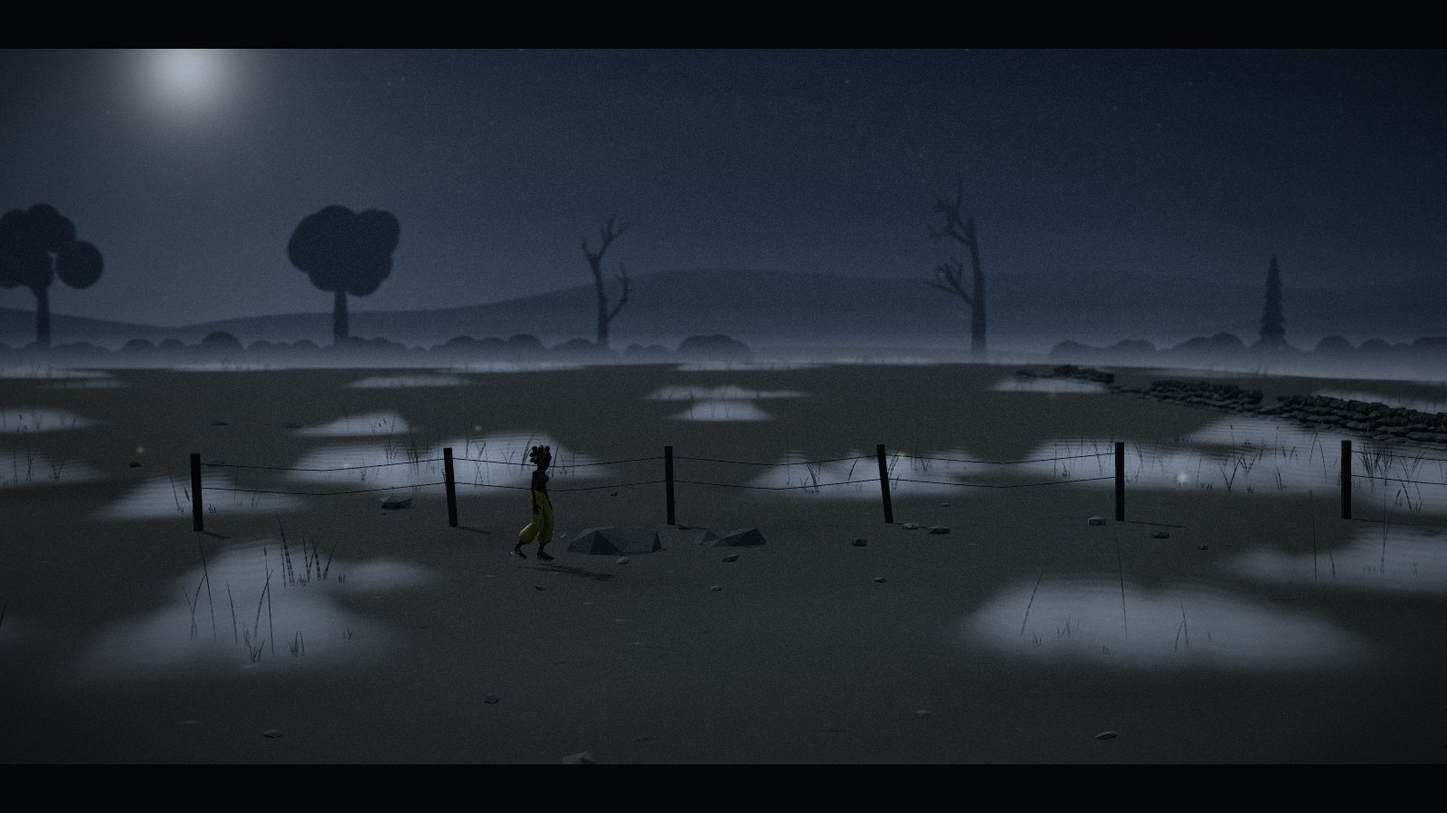
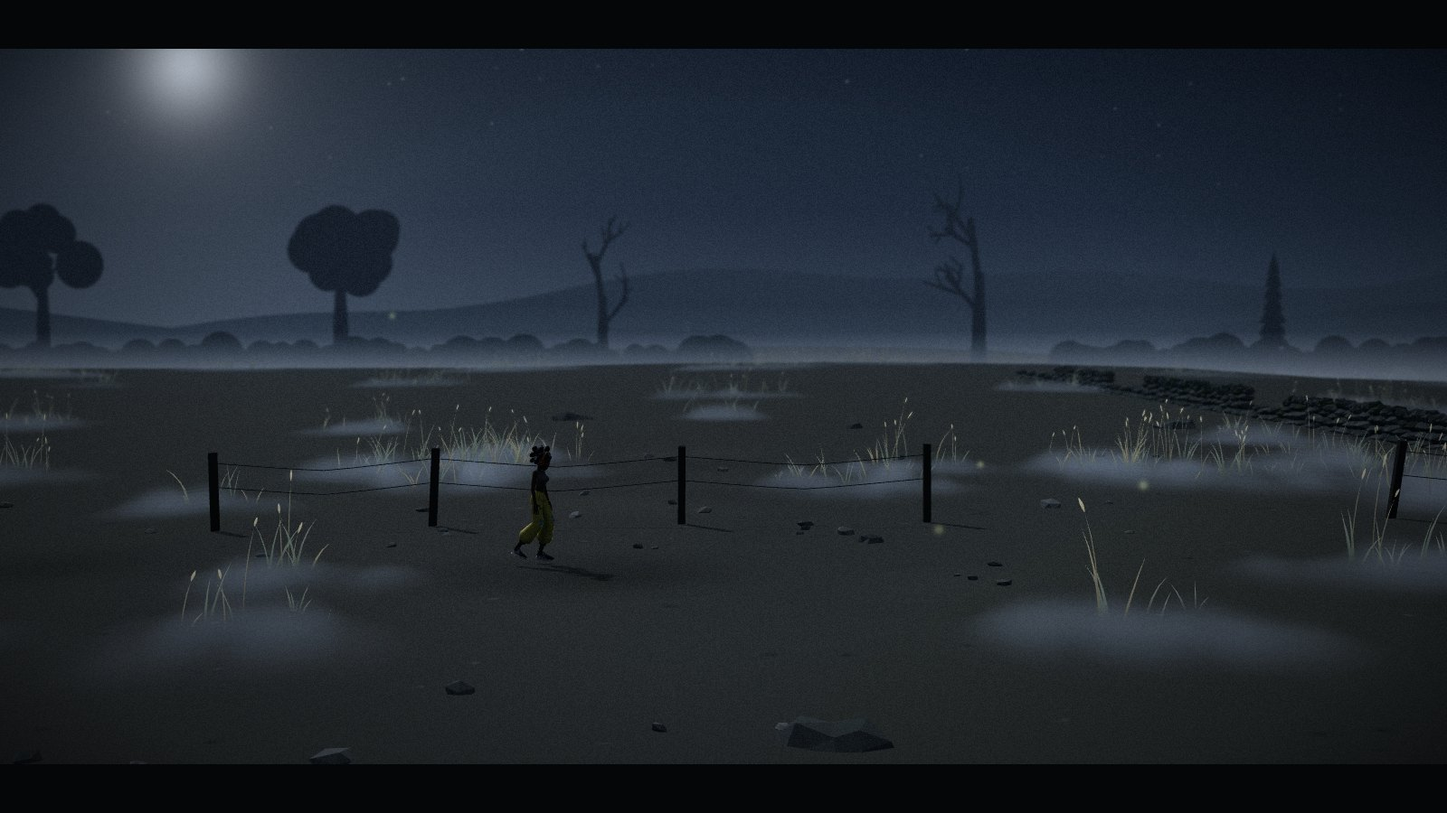
Meadow: fade grass bottoms so the mist can be thin and faint
Burying the grass roots needed thick, bright mist, which still read as
snow at night. Now the blades themselves fade in from the root (about
0.12-0.36 m, staggered per blade, via alpha-to-coverage), so only the
moonlit tops are drawn and a thin, dim haze is enough to look like it
covers them. Short grass is gone (it was invisible anyway). Blade tips
are lighter with a slight self-lit sheen, blades are wider and clumps
denser so they read against the dark soil.

Claude-Session: https://claude.ai/code/session_01RrfmthfCWniKn4WU1tpYGz

diff --git a/Last/escape.html b/Last/escape.html
@@ -17579,9 +17579,10 @@ const H12 = (() => {
 // ============================================================
 //  第 37 章 · 草地（2026-11-17）
 //  铃那一章的门外面是白的：往外走，白光一点点退下去，原来是雾 —— 夜里的一片草地，月亮在左上方。
-//  草长成一簇一簇的（一块块草窝），草窝中间是光着的土地和石头。雾只伏在草窝上（浅浅的，齐膝），比草窝大一圈，把草根全淹在里面：
-//  伸出雾来的只有几根长的（有的带穗），矮的都没在雾里 —— 看上去像是雾底下一整窝草，其实就那么几根长草。没有草的地方没有雾。
-//  （2026-11-17 第一版是满地铺雾、草零零星星撒满一地，看上去像下了雪；改成现在这样）
+//  草长成一簇一簇的（一块块草窝），草窝中间是光着的土地和石头。雾只伏在草窝上，很浅、很淡，没有草的地方没有雾。
+//  草的底下一截干脆不画（从根往上渐渐显出来），只画伸出来的上半截，被月光照着的草尖 —— 雾只要薄薄一层就像把草根盖住了，
+//  看上去像是雾底下一整窝草，其实就那么几根长草，矮草也不用摆。
+//  （2026-11-17 第一版是满地铺雾、草零零星星撒满一地；第二版雾只在草窝上，但要把草根盖严实，雾得又厚又亮 —— 两版夜里看着都像雪。改成现在这样）
 //  没有谜题，是一段走过去的路：一道矮石墙要跳过去；洼地里草窝多一些、雾稍深一点；一棵枯树；坡顶是路的尽头。
 //  雾（mdMist）：贴着地面一层层叠起来的半透明薄片，跟着地形起伏，用一张“草窝在哪”的图挖掉没草的地方。每一片有多浓，按“视线在这一层里走了多远”算 ——
 //    镜头底下往下看，视线很快穿过去，雾是薄的；往远处看，视线贴着雾面走好长一段，雾就浓得看不透。雾顶照着一张噪声图高高低低、慢慢飘，人走过去搅开一点。
@@ -17644,7 +17645,7 @@ const MD_NOISE = (() => {
 // 每一片在一根竖线上占 dh 那么厚；视线往下斜得越平，在这一片里走得越远：不透明度 = 1 - exp(-浓度 × dh / 视线往下斜的正弦)。
 // 每个顶点带 aM：x 这一层离地是雾顶的几倍，y 这里的雾顶有多高（米，洼地里高、坡顶上低）。雾顶再照噪声图高高低低；草窝的图（透明度）管雾在哪、草窝边上雾顶矮下去
 const MD_TOPK = 1.35;                                      // 最上面一层离地是雾顶的几倍（雾顶最高到 1.28 倍，上面留一点空）
-const MD_MIST_U = { uN: { value: MD_NOISE }, uMask: { value: null }, uMR: { value: new THREE.Vector4() }, uT: { value: 0 }, uD: { value: 0.95 }, uDh: { value: 0.1 }, uC: { value: new THREE.Color() }, uC2: { value: new THREE.Color() },
+const MD_MIST_U = { uN: { value: MD_NOISE }, uMask: { value: null }, uMR: { value: new THREE.Vector4() }, uT: { value: 0 }, uD: { value: 0.5 }, uDh: { value: 0.1 }, uC: { value: new THREE.Color() }, uC2: { value: new THREE.Color() },
   uFogC: { value: new THREE.Color() }, uFogD: { value: 0 }, uFogK: { value: 0.85 }, uMoon: { value: new THREE.Vector2(-0.3, -1).normalize() }, uX: { value: new THREE.Vector4() },
   uW: { value: [0, 1, 2].map(() => new THREE.Vector4(0, 0, 1, 0)) } };
 function mdMistMat() {
@@ -17692,20 +17693,26 @@ function mdMistSlab(R, mat, xs, Hm, z1, z2, N, order) {
 
 // ---- 草：一根根的叶子和草茎，合成几个网格 ----
 // aB：根的 x、z，这一点离根多远（米，顺着叶子量），摆动的相位。风：越往梢摆得越多；人：根离人不到 0.7 米的往外让、往下压一点（人跳起来就不让了）
-const MD_GRASS_U = { uT: { value: 0 }, uWind: { value: 1 }, uPl: { value: V3(0, 9, 0) } };
+// 草的底下一截不画：从根往上渐渐显出来（uF：离根多少米开始显、多少米全显，每一根再错开一点）。底下本来就该被雾盖着 ——
+// 草自己先“没了”底，雾就只要很薄很淡的一层（不然要把草根盖严实，雾得又厚又亮，夜里一块块像雪）。透明度走多重采样的覆盖（alphaToCoverage），不用排先后
+const MD_GRASS_U = { uT: { value: 0 }, uWind: { value: 1 }, uPl: { value: V3(0, 9, 0) }, uF: { value: new THREE.Vector2(0.12, 0.36) } };
 function mdGrassMat() {
-  const m = new THREE.MeshLambertMaterial({ vertexColors: true });
+  const m = new THREE.MeshLambertMaterial({ vertexColors: true, alphaToCoverage: true });
   m.onBeforeCompile = sh => {
     for (const k in MD_GRASS_U) sh.uniforms[k] = MD_GRASS_U[k];
-    sh.vertexShader = sh.vertexShader.replace('#include <common>', '#include <common>\nattribute vec4 aB;\nuniform float uT, uWind;\nuniform vec3 uPl;')
+    sh.fragmentShader = sh.fragmentShader.replace('#include <common>', '#include <common>\nuniform vec2 uF;\nvarying vec2 vS;')
+      .replace('#include <alphamap_fragment>', '#include <alphamap_fragment>\n\tdiffuseColor.a *= smoothstep(uF.x + vS.y, uF.y + vS.y, vS.x);')
+      .replace('#include <emissivemap_fragment>', '#include <emissivemap_fragment>\n\ttotalEmissiveRadiance += diffuseColor.rgb * 0.4;');   // 草尖自己带一点月光的亮：底下的雾很淡了，草要在暗的土上也看得出来
+    sh.vertexShader = sh.vertexShader.replace('#include <common>', '#include <common>\nattribute vec4 aB;\nuniform float uT, uWind;\nuniform vec3 uPl;\nvarying vec2 vS;')
       .replace('#include <begin_vertex>', `#include <begin_vertex>
+        vS = vec2(aB.z, 0.08 * sin(aB.x * 1.7 + aB.y * 2.3));                        // 离根多远；从哪显出来，每一根错开一点
         float s2 = aB.z * aB.z, ph = uT * 1.35 + aB.x * 0.31 + aB.y * 0.17 + aB.w;
         transformed.x += s2 * uWind * (0.07 * sin(ph) + 0.03 * sin(ph * 2.7 + 1.3) + 0.04);
         transformed.z += s2 * uWind * 0.035 * sin(ph * 0.73 + 2.1);
         vec2 dp = aB.xy - uPl.xz; float dl = length(dp), pk = smoothstep(0.7, 0.12, dl) * (1.0 - smoothstep(0.35, 0.9, uPl.y));
         transformed.xz += dp / max(dl, 0.05) * pk * s2 * 0.6; transformed.y -= pk * s2 * 0.3;`);
   };
-  m.customProgramCacheKey = () => 'meadow-grass-1';
+  m.customProgramCacheKey = () => 'meadow-grass-3';
   m.userData.own = true; return m;
 }
 // 往草的顶点表 B（{ p, c, b, i }）里加一根：根在 (x, y, z)，长 L，根部宽 w；ang 往哪边歪（弧度，0 是 +x）；a0 根部斜多少、bend 一路弯过去多少（弧度）；c0 / c1 根和梢的颜色。
@@ -17799,9 +17806,9 @@ const MEADOW = (() => {
   env(X - 8, NIGHT, true); env(END + 60, NIGHT);
   BIRDS[MD_N] = [['bird', 0]]; FAR[MD_N] = ['owl', 'twig', 'owl'];
   // 草窝正中雾顶有多高（米）：平常齐膝，洼地里稍深，坡顶上浅
-  const Hm = x => 0.48 + 0.16 * sstep(X + 50, X + 62, x) * sstep(X + 88, X + 77, x) - 0.08 * sstep(X + 104, X + 118, x);
+  const Hm = x => 0.36 + 0.16 * sstep(X + 50, X + 62, x) * sstep(X + 88, X + 77, x) - 0.08 * sstep(X + 104, X + 118, x);
   const MX1 = A - 2, MX2 = END + 70, MZ1 = -104, MZ2 = 13;                  // 雾可能在哪：从铃那一章的门外（白光里）一直到坡顶外面，前后从树篱前面一点到镜头底下
-  const NIGHT_MIST = new THREE.Color(0x7e8ea4), FWD = new THREE.Color(0x1c2633), _c = new THREE.Color();
+  const NIGHT_MIST = new THREE.Color(0x67778e), FWD = new THREE.Color(0x1c2633), _c = new THREE.Color();
 
   let V = null;
   function* build(R) {
@@ -17844,14 +17851,14 @@ const MEADOW = (() => {
       v.mist = [mdMistSlab(R, mat, xs, Hm, MZ1, -90, N, -500), mdMistSlab(R, mat, xs, Hm, -90, -40, N, -300), mdMistSlab(R, mat, xs, Hm, -40, MZ2, N, -100)];
     }
     yield;
-    // ---- 草：只长在草窝里。窝中间高、边上矮；长的伸出雾来，矮的（不到膝盖）都没在雾里 ----
-    const GR0 = 0x18211a, GR1 = 0x5a6a5b, DRY0 = 0x24251a, DRY1 = 0x857f62, ST0 = 0x262d22, ST1 = 0x6e705a, HD0 = 0x8a8468, HD1 = 0xa9a184, SH0 = 0x141b15, SH1 = 0x34402f;
+    // ---- 草：只长在草窝里，窝中间高、边上矮。只有长草：底下一截不画（见 mdGrassMat），矮草本来就看不见，不摆了 ----
+    const GR0 = 0x2a3a2c, GR1 = 0x9aac9c, DRY0 = 0x3a3a2a, DRY1 = 0xc4bc98, ST0 = 0x3a4232, ST1 = 0xaaa88c, HD0 = 0xc0b894, HD1 = 0xe0d8b4;   // 梢上浅：月光照着的草尖，在暗的土上也看得清
     const gmat = mdGrassMat(), K = LOW ? 0.6 : 1;
     const clear = (x, z) => Math.abs(x - WX) < 0.55 || (Math.abs(x - (X + 71)) < 0.6 && Math.abs(z + 15) < 0.6);   // 石墙里、树干上不长
     const side = () => (rnd() < 0.5 ? 0 : Math.PI) + rr(-0.6, 0.6);
     const chunks = new Map(), chunk = x => { const k = Math.floor((x - A) / 40); if (!chunks.has(k)) chunks.set(k, { p: [], c: [], b: [], i: [] }); return chunks.get(k); };
     for (const P of MD_PATCHES) for (const [cx, cz, rx, rz] of P.parts) {
-      const tallD = (cz > -16 ? 2.2 : cz > -36 ? 1.3 : 0.8) * K, n = Math.max(2, Math.round(Math.PI * rx * rz * tallD)), B = chunk(cx);
+      const tallD = (cz > -16 ? 4.5 : cz > -36 ? 2.6 : 1.6) * K, n = Math.max(3, Math.round(Math.PI * rx * rz * tallD)), B = chunk(cx);
       for (let k = 0; k < n; k++) {                                               // 长草：一丛一到四五根叶子，或者一两根带穗的草茎
         const a = rr(0, 6.28), rad = Math.sqrt(rnd()), x = cx + Math.cos(a) * rad * rx, z = cz + Math.sin(a) * rad * rz;
         if (clear(x, z)) continue;
@@ -17859,20 +17866,14 @@ const MEADOW = (() => {
         if (rnd() < 0.2) {
           for (let j = 0, m = rnd() < 0.6 ? 1 : 2; j < m; j++) {
             const L = rr(0.72, 1.12) * hk, ang = side(), xr = x + rr(-0.04, 0.04), zr = z + rr(-0.04, 0.04);
-            const tip = mdBlade(B, xr, y, zr, L, rr(0.008, 0.011), ang, rr(-0.06, 0.12), rr(0.05, 0.35), ST0, ST1, { k: 5, wp: 0.3, ph });
+            const tip = mdBlade(B, xr, y, zr, L, rr(0.011, 0.015), ang, rr(-0.06, 0.12), rr(0.05, 0.35), ST0, ST1, { k: 5, wp: 0.3, ph });
             mdBlade(B, tip[0], tip[1], tip[2], rr(0.07, 0.13), rr(0.02, 0.028), ang, tip[3], rr(0, 0.15), HD0, HD1, { k: 3, prof: s => Math.sin(Math.PI * (0.08 + 0.84 * s)), s0: L, rx: xr, rz: zr, ph });
           }
         } else {
           const m = 1 + Math.floor(Math.pow(rnd(), 1.6) * 4.5), L0 = (0.42 + 0.62 * Math.pow(rnd(), 0.9)) * hk, dry = rnd() < 0.3;
-          for (let j = 0; j < m; j++) mdBlade(B, x + rr(-0.03, 0.03), y, z + rr(-0.03, 0.03), L0 * rr(0.62, 1), rr(0.016, 0.03), side(), rr(0.02, 0.28), rr(0.1, 0.9),
+          for (let j = 0; j < m; j++) mdBlade(B, x + rr(-0.03, 0.03), y, z + rr(-0.03, 0.03), L0 * rr(0.62, 1), rr(0.024, 0.042), side(), rr(0.02, 0.28), rr(0.1, 0.9),
             dry ? DRY0 : GR0, dry ? DRY1 : GR1, { k: 5, ph: ph + j * 0.4 });
         }
-      }
-      if (cz > -18) for (let k = 0, ns = Math.round(Math.PI * rx * rz * 3 * K); k < ns; k++) {   // 矮草：铺满草窝，都在雾底下（只有镜头跟前、雾薄的地方隐约看得见）
-        const a = rr(0, 6.28), rad = Math.sqrt(rnd()), x = cx + Math.cos(a) * rad * rx, z = cz + Math.sin(a) * rad * rz;
-        if (clear(x, z)) continue;
-        const y = groundY(x) - 0.01, L0 = rr(0.1, 0.24), ph = rr(0, 6.28);
-        for (let j = 0, m = 3 + Math.floor(rnd() * 4); j < m; j++) mdBlade(B, x + rr(-0.05, 0.05), y, z + rr(-0.05, 0.05), L0 * rr(0.6, 1), rr(0.012, 0.02), rr(0, 6.28), rr(0.05, 0.4), rr(0.2, 0.8), SH0, SH1, { k: 3, ph });
       }
     }
     for (const B of chunks.values()) { mdGrassMesh(R, B, gmat); yield; }

diff --git a/Last/sidescroller/src/69-m01-meadow.js b/Last/sidescroller/src/69-m01-meadow.js
@@ -1,9 +1,10 @@
 // ============================================================
 //  第 37 章 · 草地（2026-11-17）
 //  铃那一章的门外面是白的：往外走，白光一点点退下去，原来是雾 —— 夜里的一片草地，月亮在左上方。
-//  草长成一簇一簇的（一块块草窝），草窝中间是光着的土地和石头。雾只伏在草窝上（浅浅的，齐膝），比草窝大一圈，把草根全淹在里面：
-//  伸出雾来的只有几根长的（有的带穗），矮的都没在雾里 —— 看上去像是雾底下一整窝草，其实就那么几根长草。没有草的地方没有雾。
-//  （2026-11-17 第一版是满地铺雾、草零零星星撒满一地，看上去像下了雪；改成现在这样）
+//  草长成一簇一簇的（一块块草窝），草窝中间是光着的土地和石头。雾只伏在草窝上，很浅、很淡，没有草的地方没有雾。
+//  草的底下一截干脆不画（从根往上渐渐显出来），只画伸出来的上半截，被月光照着的草尖 —— 雾只要薄薄一层就像把草根盖住了，
+//  看上去像是雾底下一整窝草，其实就那么几根长草，矮草也不用摆。
+//  （2026-11-17 第一版是满地铺雾、草零零星星撒满一地；第二版雾只在草窝上，但要把草根盖严实，雾得又厚又亮 —— 两版夜里看着都像雪。改成现在这样）
 //  没有谜题，是一段走过去的路：一道矮石墙要跳过去；洼地里草窝多一些、雾稍深一点；一棵枯树；坡顶是路的尽头。
 //  雾（mdMist）：贴着地面一层层叠起来的半透明薄片，跟着地形起伏，用一张“草窝在哪”的图挖掉没草的地方。每一片有多浓，按“视线在这一层里走了多远”算 ——
 //    镜头底下往下看，视线很快穿过去，雾是薄的；往远处看，视线贴着雾面走好长一段，雾就浓得看不透。雾顶照着一张噪声图高高低低、慢慢飘，人走过去搅开一点。
@@ -66,7 +67,7 @@ const MD_NOISE = (() => {
 // 每一片在一根竖线上占 dh 那么厚；视线往下斜得越平，在这一片里走得越远：不透明度 = 1 - exp(-浓度 × dh / 视线往下斜的正弦)。
 // 每个顶点带 aM：x 这一层离地是雾顶的几倍，y 这里的雾顶有多高（米，洼地里高、坡顶上低）。雾顶再照噪声图高高低低；草窝的图（透明度）管雾在哪、草窝边上雾顶矮下去
 const MD_TOPK = 1.35;                                      // 最上面一层离地是雾顶的几倍（雾顶最高到 1.28 倍，上面留一点空）
-const MD_MIST_U = { uN: { value: MD_NOISE }, uMask: { value: null }, uMR: { value: new THREE.Vector4() }, uT: { value: 0 }, uD: { value: 0.95 }, uDh: { value: 0.1 }, uC: { value: new THREE.Color() }, uC2: { value: new THREE.Color() },
+const MD_MIST_U = { uN: { value: MD_NOISE }, uMask: { value: null }, uMR: { value: new THREE.Vector4() }, uT: { value: 0 }, uD: { value: 0.5 }, uDh: { value: 0.1 }, uC: { value: new THREE.Color() }, uC2: { value: new THREE.Color() },
   uFogC: { value: new THREE.Color() }, uFogD: { value: 0 }, uFogK: { value: 0.85 }, uMoon: { value: new THREE.Vector2(-0.3, -1).normalize() }, uX: { value: new THREE.Vector4() },
   uW: { value: [0, 1, 2].map(() => new THREE.Vector4(0, 0, 1, 0)) } };
 function mdMistMat() {
@@ -114,20 +115,26 @@ function mdMistSlab(R, mat, xs, Hm, z1, z2, N, order) {
 
 // ---- 草：一根根的叶子和草茎，合成几个网格 ----
 // aB：根的 x、z，这一点离根多远（米，顺着叶子量），摆动的相位。风：越往梢摆得越多；人：根离人不到 0.7 米的往外让、往下压一点（人跳起来就不让了）
-const MD_GRASS_U = { uT: { value: 0 }, uWind: { value: 1 }, uPl: { value: V3(0, 9, 0) } };
+// 草的底下一截不画：从根往上渐渐显出来（uF：离根多少米开始显、多少米全显，每一根再错开一点）。底下本来就该被雾盖着 ——
+// 草自己先“没了”底，雾就只要很薄很淡的一层（不然要把草根盖严实，雾得又厚又亮，夜里一块块像雪）。透明度走多重采样的覆盖（alphaToCoverage），不用排先后
+const MD_GRASS_U = { uT: { value: 0 }, uWind: { value: 1 }, uPl: { value: V3(0, 9, 0) }, uF: { value: new THREE.Vector2(0.12, 0.36) } };
 function mdGrassMat() {
-  const m = new THREE.MeshLambertMaterial({ vertexColors: true });
+  const m = new THREE.MeshLambertMaterial({ vertexColors: true, alphaToCoverage: true });
   m.onBeforeCompile = sh => {
     for (const k in MD_GRASS_U) sh.uniforms[k] = MD_GRASS_U[k];
-    sh.vertexShader = sh.vertexShader.replace('#include <common>', '#include <common>\nattribute vec4 aB;\nuniform float uT, uWind;\nuniform vec3 uPl;')
+    sh.fragmentShader = sh.fragmentShader.replace('#include <common>', '#include <common>\nuniform vec2 uF;\nvarying vec2 vS;')
+      .replace('#include <alphamap_fragment>', '#include <alphamap_fragment>\n\tdiffuseColor.a *= smoothstep(uF.x + vS.y, uF.y + vS.y, vS.x);')
+      .replace('#include <emissivemap_fragment>', '#include <emissivemap_fragment>\n\ttotalEmissiveRadiance += diffuseColor.rgb * 0.4;');   // 草尖自己带一点月光的亮：底下的雾很淡了，草要在暗的土上也看得出来
+    sh.vertexShader = sh.vertexShader.replace('#include <common>', '#include <common>\nattribute vec4 aB;\nuniform float uT, uWind;\nuniform vec3 uPl;\nvarying vec2 vS;')
       .replace('#include <begin_vertex>', `#include <begin_vertex>
+        vS = vec2(aB.z, 0.08 * sin(aB.x * 1.7 + aB.y * 2.3));                        // 离根多远；从哪显出来，每一根错开一点
         float s2 = aB.z * aB.z, ph = uT * 1.35 + aB.x * 0.31 + aB.y * 0.17 + aB.w;
         transformed.x += s2 * uWind * (0.07 * sin(ph) + 0.03 * sin(ph * 2.7 + 1.3) + 0.04);
         transformed.z += s2 * uWind * 0.035 * sin(ph * 0.73 + 2.1);
         vec2 dp = aB.xy - uPl.xz; float dl = length(dp), pk = smoothstep(0.7, 0.12, dl) * (1.0 - smoothstep(0.35, 0.9, uPl.y));
         transformed.xz += dp / max(dl, 0.05) * pk * s2 * 0.6; transformed.y -= pk * s2 * 0.3;`);
   };
-  m.customProgramCacheKey = () => 'meadow-grass-1';
+  m.customProgramCacheKey = () => 'meadow-grass-3';
   m.userData.own = true; return m;
 }
 // 往草的顶点表 B（{ p, c, b, i }）里加一根：根在 (x, y, z)，长 L，根部宽 w；ang 往哪边歪（弧度，0 是 +x）；a0 根部斜多少、bend 一路弯过去多少（弧度）；c0 / c1 根和梢的颜色。
@@ -221,9 +228,9 @@ const MEADOW = (() => {
   env(X - 8, NIGHT, true); env(END + 60, NIGHT);
   BIRDS[MD_N] = [['bird', 0]]; FAR[MD_N] = ['owl', 'twig', 'owl'];
   // 草窝正中雾顶有多高（米）：平常齐膝，洼地里稍深，坡顶上浅
-  const Hm = x => 0.48 + 0.16 * sstep(X + 50, X + 62, x) * sstep(X + 88, X + 77, x) - 0.08 * sstep(X + 104, X + 118, x);
+  const Hm = x => 0.36 + 0.16 * sstep(X + 50, X + 62, x) * sstep(X + 88, X + 77, x) - 0.08 * sstep(X + 104, X + 118, x);
   const MX1 = A - 2, MX2 = END + 70, MZ1 = -104, MZ2 = 13;                  // 雾可能在哪：从铃那一章的门外（白光里）一直到坡顶外面，前后从树篱前面一点到镜头底下
-  const NIGHT_MIST = new THREE.Color(0x7e8ea4), FWD = new THREE.Color(0x1c2633), _c = new THREE.Color();
+  const NIGHT_MIST = new THREE.Color(0x67778e), FWD = new THREE.Color(0x1c2633), _c = new THREE.Color();
 
   let V = null;
   function* build(R) {
@@ -266,14 +273,14 @@ const MEADOW = (() => {
       v.mist = [mdMistSlab(R, mat, xs, Hm, MZ1, -90, N, -500), mdMistSlab(R, mat, xs, Hm, -90, -40, N, -300), mdMistSlab(R, mat, xs, Hm, -40, MZ2, N, -100)];
     }
     yield;
-    // ---- 草：只长在草窝里。窝中间高、边上矮；长的伸出雾来，矮的（不到膝盖）都没在雾里 ----
-    const GR0 = 0x18211a, GR1 = 0x5a6a5b, DRY0 = 0x24251a, DRY1 = 0x857f62, ST0 = 0x262d22, ST1 = 0x6e705a, HD0 = 0x8a8468, HD1 = 0xa9a184, SH0 = 0x141b15, SH1 = 0x34402f;
+    // ---- 草：只长在草窝里，窝中间高、边上矮。只有长草：底下一截不画（见 mdGrassMat），矮草本来就看不见，不摆了 ----
+    const GR0 = 0x2a3a2c, GR1 = 0x9aac9c, DRY0 = 0x3a3a2a, DRY1 = 0xc4bc98, ST0 = 0x3a4232, ST1 = 0xaaa88c, HD0 = 0xc0b894, HD1 = 0xe0d8b4;   // 梢上浅：月光照着的草尖，在暗的土上也看得清
     const gmat = mdGrassMat(), K = LOW ? 0.6 : 1;
     const clear = (x, z) => Math.abs(x - WX) < 0.55 || (Math.abs(x - (X + 71)) < 0.6 && Math.abs(z + 15) < 0.6);   // 石墙里、树干上不长
     const side = () => (rnd() < 0.5 ? 0 : Math.PI) + rr(-0.6, 0.6);
     const chunks = new Map(), chunk = x => { const k = Math.floor((x - A) / 40); if (!chunks.has(k)) chunks.set(k, { p: [], c: [], b: [], i: [] }); return chunks.get(k); };
     for (const P of MD_PATCHES) for (const [cx, cz, rx, rz] of P.parts) {
-      const tallD = (cz > -16 ? 2.2 : cz > -36 ? 1.3 : 0.8) * K, n = Math.max(2, Math.round(Math.PI * rx * rz * tallD)), B = chunk(cx);
+      const tallD = (cz > -16 ? 4.5 : cz > -36 ? 2.6 : 1.6) * K, n = Math.max(3, Math.round(Math.PI * rx * rz * tallD)), B = chunk(cx);
       for (let k = 0; k < n; k++) {                                               // 长草：一丛一到四五根叶子，或者一两根带穗的草茎
         const a = rr(0, 6.28), rad = Math.sqrt(rnd()), x = cx + Math.cos(a) * rad * rx, z = cz + Math.sin(a) * rad * rz;
         if (clear(x, z)) continue;
@@ -281,20 +288,14 @@ const MEADOW = (() => {
         if (rnd() < 0.2) {
           for (let j = 0, m = rnd() < 0.6 ? 1 : 2; j < m; j++) {
             const L = rr(0.72, 1.12) * hk, ang = side(), xr = x + rr(-0.04, 0.04), zr = z + rr(-0.04, 0.04);
-            const tip = mdBlade(B, xr, y, zr, L, rr(0.008, 0.011), ang, rr(-0.06, 0.12), rr(0.05, 0.35), ST0, ST1, { k: 5, wp: 0.3, ph });
+            const tip = mdBlade(B, xr, y, zr, L, rr(0.011, 0.015), ang, rr(-0.06, 0.12), rr(0.05, 0.35), ST0, ST1, { k: 5, wp: 0.3, ph });
             mdBlade(B, tip[0], tip[1], tip[2], rr(0.07, 0.13), rr(0.02, 0.028), ang, tip[3], rr(0, 0.15), HD0, HD1, { k: 3, prof: s => Math.sin(Math.PI * (0.08 + 0.84 * s)), s0: L, rx: xr, rz: zr, ph });
           }
         } else {
           const m = 1 + Math.floor(Math.pow(rnd(), 1.6) * 4.5), L0 = (0.42 + 0.62 * Math.pow(rnd(), 0.9)) * hk, dry = rnd() < 0.3;
-          for (let j = 0; j < m; j++) mdBlade(B, x + rr(-0.03, 0.03), y, z + rr(-0.03, 0.03), L0 * rr(0.62, 1), rr(0.016, 0.03), side(), rr(0.02, 0.28), rr(0.1, 0.9),
+          for (let j = 0; j < m; j++) mdBlade(B, x + rr(-0.03, 0.03), y, z + rr(-0.03, 0.03), L0 * rr(0.62, 1), rr(0.024, 0.042), side(), rr(0.02, 0.28), rr(0.1, 0.9),
             dry ? DRY0 : GR0, dry ? DRY1 : GR1, { k: 5, ph: ph + j * 0.4 });
         }
-      }
-      if (cz > -18) for (let k = 0, ns = Math.round(Math.PI * rx * rz * 3 * K); k < ns; k++) {   // 矮草：铺满草窝，都在雾底下（只有镜头跟前、雾薄的地方隐约看得见）
-        const a = rr(0, 6.28), rad = Math.sqrt(rnd()), x = cx + Math.cos(a) * rad * rx, z = cz + Math.sin(a) * rad * rz;
-        if (clear(x, z)) continue;
-        const y = groundY(x) - 0.01, L0 = rr(0.1, 0.24), ph = rr(0, 6.28);
-        for (let j = 0, m = 3 + Math.floor(rnd() * 4); j < m; j++) mdBlade(B, x + rr(-0.05, 0.05), y, z + rr(-0.05, 0.05), L0 * rr(0.6, 1), rr(0.012, 0.02), rr(0, 6.28), rr(0.05, 0.4), rr(0.2, 0.8), SH0, SH1, { k: 3, ph });
       }
     }
     for (const B of chunks.values()) { mdGrassMesh(R, B, gmat); yield; }

diff --git a/README.md b/README.md
@@ -240,11 +240,11 @@ python3 -m http.server 8765 --bind 127.0.0.1 --directory Last
 `Last/sidescroller/src/69-m01-meadow.js`，2026-11-17 加的，`?ch=37`（或者按 Esc，右边一列最下面“出了工厂”）。第 36 章“铃”演完，结尾画面上按 → 接着往前走：盖着的白慢慢退掉，人站在门外白茫茫的一片里；往右走，白一点点退成灰、再退成夜 —— 门外那一片白原来是雾。
 
 - 夜里的一片荒地，月亮在左上方。草长成一窝一窝的（一两米大小，常常三五窝挨在一起），草窝中间是光着的土地：深深浅浅的土、干裂的细纹、碎石子和大大小小的石头。脚步声踩进草窝是草，出来是土。
-- 雾只伏在草窝上，浅浅的，齐膝，没有草的地方没有雾。雾比草窝大一圈、往镜头这边多出去一点，草根全淹在里面：伸出雾来的只有几根长的（一根到四五根叶子一丛，也有带穗的草茎），矮的（不到膝盖）都在雾底下。看上去像是雾底下一整窝草，其实就那么几根长草。窝中间的草高，边上的矮。
+- 雾只伏在草窝上，很浅、很淡，没有草的地方没有雾。草的底下一截不画：从根往上大约 0.12–0.36 米渐渐显出来（每一根错开一点），只画伸出来的上半截和被月光照着的草尖（草尖自己带一点亮）。这样薄薄一层雾就像把草根盖住了，看上去像是雾底下一整窝草，其实就那么几根长草（一根到四五根叶子一丛，也有带穗的草茎）；矮草反正看不见，不摆了。窝中间的草高，边上的矮。
 - 没有谜题，是一段走过去的路：一道干砌矮石墙（0.8 米）要跳过去；洼地里草窝多一些、雾稍深一点，有一棵枯树；路后面一道旧栅栏；坡上一排木桩斜着往远处去；坡顶是整条路的尽头（空气墙，原来在第 36 章右墙那里）。
-- 第一版（同一天）是满地铺雾、草零零星星撒满一地，看上去像下了雪；改成了现在的草窝 + 光地。
-- 雾的做法：贴着地面一层层叠起来的半透明薄片（电脑上 10 层，触屏 6 层，地址后面加 `?low=1` 也是 6 层），跟着地形起伏，用一张“草窝在哪”的图（`MD_PATCHES` 画出来、虚了边）挖掉没草的地方。每一片有多浓，按“视线在这一层里走了多远”算（视线贴得再平也只算到一定长度，不然远处的雾堆会变成地上一块实心的白）。雾越贴地越浓（埋得住草根），往上淡掉；草窝边上雾顶矮下去、也淡下去，所以侧着看是一个个软软的雾堆，没有硬边。雾堆的顶照噪声图鼓鼓囊囊、慢慢飘（噪声在前后方向上拉长了：上下两层斜着看取的是前后错开的地方，花样太碎会叠出一道道横纹，像水面）；雾堆上面被月光照着亮、底下暗一点；朝月亮那边的雾亮一点；人走过去，腿边搅开一点。透明的东西不写深度，雾和远处的布景板（树篱、远山）只能靠先后次序，所以雾按深度切成三段，和布景板一段隔一段地画。
-- 草：只长在草窝里，一根根细长的叶子，叶面总朝着镜头（侧面看过去是一笔弯线），跟着阵风摆；人走过去，离人不到 0.7 米的往两边让、往下压（跳起来就不让了）。
+- 第一版（同一天）是满地铺雾、草零零星星撒满一地；第二版改成草窝 + 光地，但雾要把草根盖严实，得又厚又亮。两版在夜里看着都像雪。第三版（现在）让草自己没了底，雾就能很薄很淡。
+- 雾的做法：贴着地面一层层叠起来的半透明薄片（电脑上 10 层，触屏 6 层，地址后面加 `?low=1` 也是 6 层），跟着地形起伏，用一张“草窝在哪”的图（`MD_PATCHES` 画出来、虚了边）挖掉没草的地方。每一片有多浓，按“视线在这一层里走了多远”算（视线贴得再平也只算到一定长度，不然远处的雾堆会变成地上一块实心的白）。雾贴地的浓一点，往上淡掉；草窝边上雾顶矮下去、也淡下去，所以侧着看是一个个软软的雾堆，没有硬边。雾堆的顶照噪声图鼓鼓囊囊、慢慢飘（噪声在前后方向上拉长了：上下两层斜着看取的是前后错开的地方，花样太碎会叠出一道道横纹，像水面）；雾堆上面被月光照着亮、底下暗一点；朝月亮那边的雾亮一点；人走过去，腿边搅开一点。透明的东西不写深度，雾和远处的布景板（树篱、远山）只能靠先后次序，所以雾按深度切成三段，和布景板一段隔一段地画。
+- 草：只长在草窝里，一根根细长的叶子，叶面总朝着镜头（侧面看过去是一笔弯线），底下渐渐透明（多重采样的覆盖，`alphaToCoverage`，不用排先后），跟着阵风摆；人走过去，离人不到 0.7 米的往两边让、往下压（跳起来就不让了）。
 - 为它改的几处：第 36 章的结尾画面上可以按 → 接着往前走（`69-h12-bell.js` 的 `cont`），门外的天也是白的（以前门外露出一块厂房里的黑天）；厂房里的光原来登记到 X + 62，和门外那一片白重在一处，出了门先暗下去一截才变白，现在登记到门口为止；从后面的章节往回走进铃那一章，结尾不再演一遍；整条路尽头的空气墙从第 36 章挪到第 37 章坡顶；章节菜单右边一列分成“工厂深处”“出了工厂”两组。两章之间的路在 `69-zz-links.js` 最后一段：门外十几米还是那一片白，中间几个关键帧把雾色和天边写成一样的灰（关键帧之间雾色是按线性光插的、天是按屏幕上的颜色插的，不写死的话，雾里远处的树会比天还亮，像一个个白影子）。
 - 画面：`generated_images/meadow-01-field.jpg`（草地）、`meadow-01-hollow.jpg`（洼地）、`meadow-01-crest.jpg`（坡顶）、`meadow-02-exit.jpg`（出了门，白雾退成夜的三步）。
 - 查过的（改成草窝以后又查了一遍）：无头 Chrome（软件渲染）里看了这一章几处的画面，从铃那一章的结尾按 → 走出门、穿过白雾走进草地的一串画面；自动玩家从这一章开头一直走到坡顶的空气墙（中间跳过石墙，没有回存档点），再一路往回走进铃那一章的屋里（结尾没有再演一遍）；三十七章各从开头跑几秒没有报错；章节菜单看过。没有亲手玩，没在手机上试（雾是大半个画面的半透明叠层，手机上可能吃力，`?low=1` 看得到少几层的样子），声音没听过（蟋蟀、远处的猫头鹰都是现成的）。
